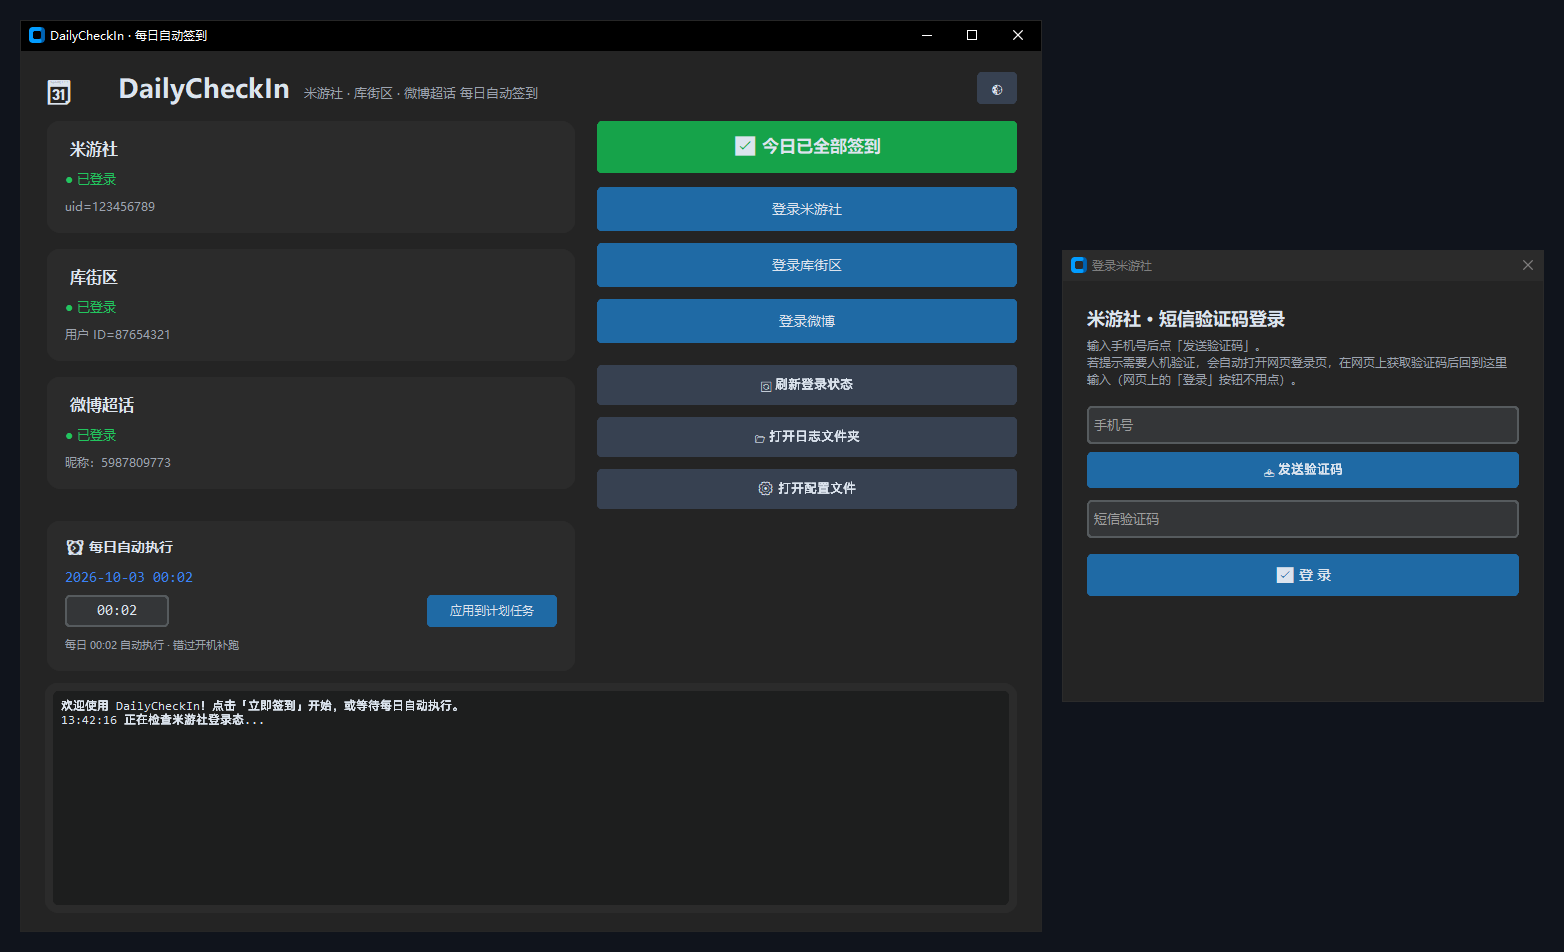
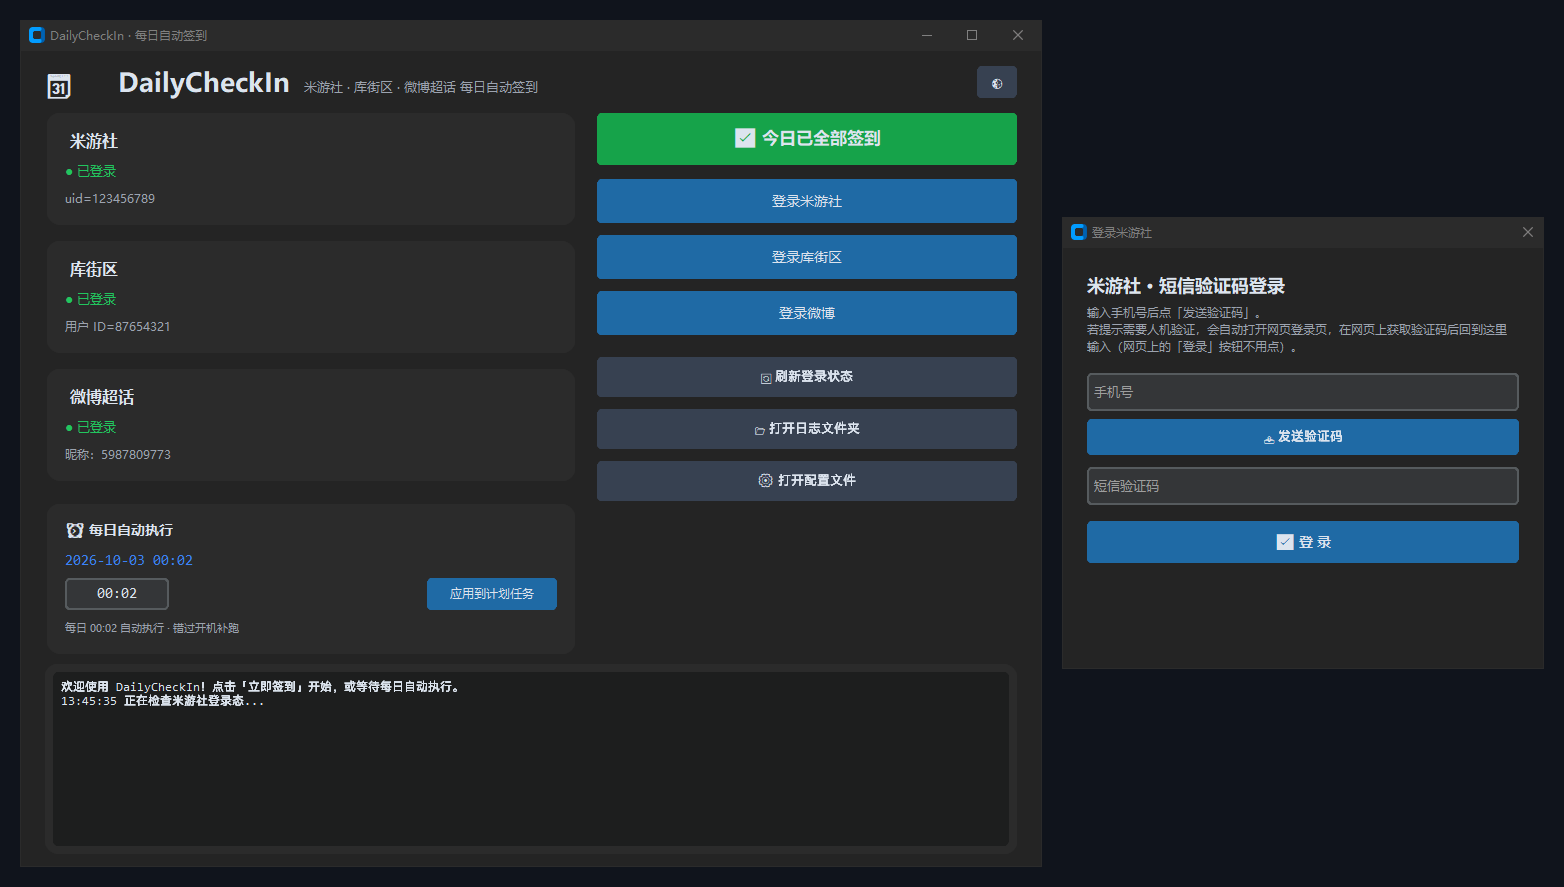
style(gui): 默认窗口高度压至 815
- 头部与日志区边距收紧、日志区高度 230 改 190，内容自然需求高度 864 降至 808
- 卡片与按钮样式保持不变，最小尺寸同步调整（860x812）

diff --git a/gui.py b/gui.py
@@ -277,8 +277,8 @@ class App(ctk.CTk):
     def __init__(self):
         super().__init__()
         self.title("DailyCheckIn · 每日自动签到")
-        self.geometry("1020x880")
-        self.minsize(880, 800)
+        self.geometry("1020x815")
+        self.minsize(860, 812)
 
         self.log_queue = queue.Queue()
         self.ui_queue = queue.Queue()
@@ -313,7 +313,7 @@ class App(ctk.CTk):
     # ────────── 界面构建 ──────────
     def _build_header(self):
         bar = ctk.CTkFrame(self, fg_color="transparent", height=70)
-        bar.pack(fill="x", padx=24, pady=(18, 6))
+        bar.pack(fill="x", padx=24, pady=(12, 4))
         ctk.CTkLabel(bar, text="🗓 DailyCheckIn",
                      font=("Microsoft YaHei UI", 26, "bold")).pack(side="left")
         ctk.CTkLabel(bar, text="米游社 · 库街区 · 微博超话 每日自动签到",
@@ -417,8 +417,8 @@ class App(ctk.CTk):
         right.grid_rowconfigure(7, weight=1)
 
     def _build_log(self):
-        log_frame = ctk.CTkFrame(self, corner_radius=14, height=230)
-        log_frame.pack(fill="x", padx=24, pady=(4, 18))
+        log_frame = ctk.CTkFrame(self, corner_radius=14, height=190)
+        log_frame.pack(fill="x", padx=24, pady=(2, 12))
         log_frame.pack_propagate(False)   # 日志区固定高度，任何窗口尺寸下都完整可见
         self.log_box = ctk.CTkTextbox(log_frame, font=("Consolas", 12), wrap="word")
         self.log_box.pack(fill="both", expand=True, padx=8, pady=8)
